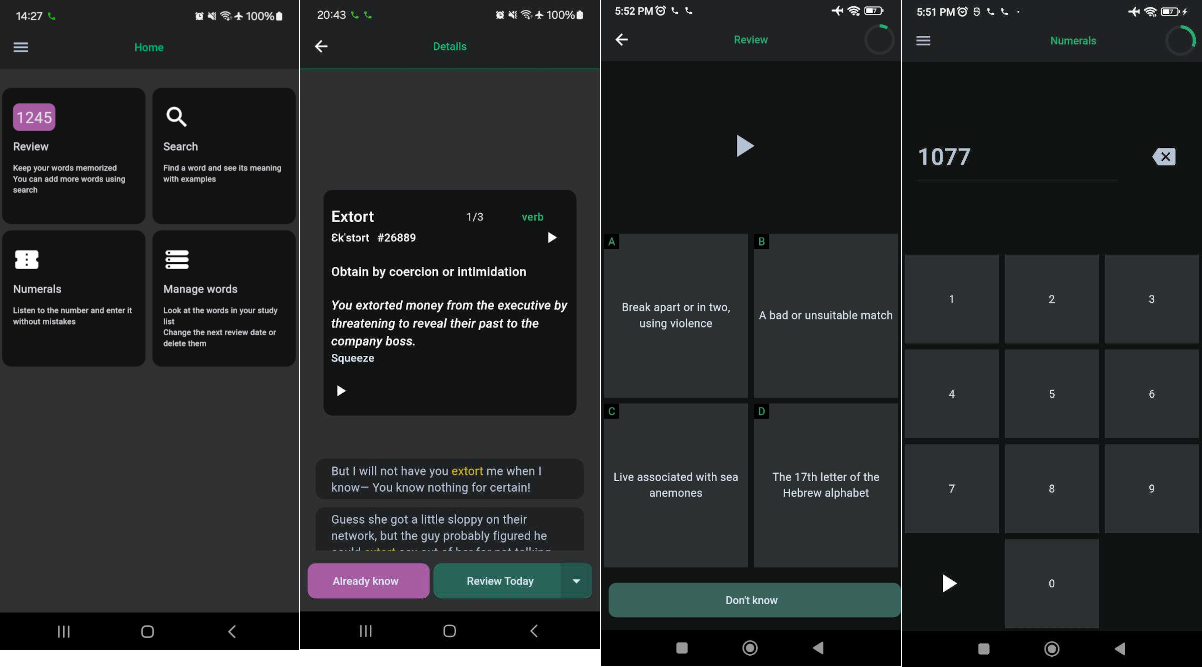
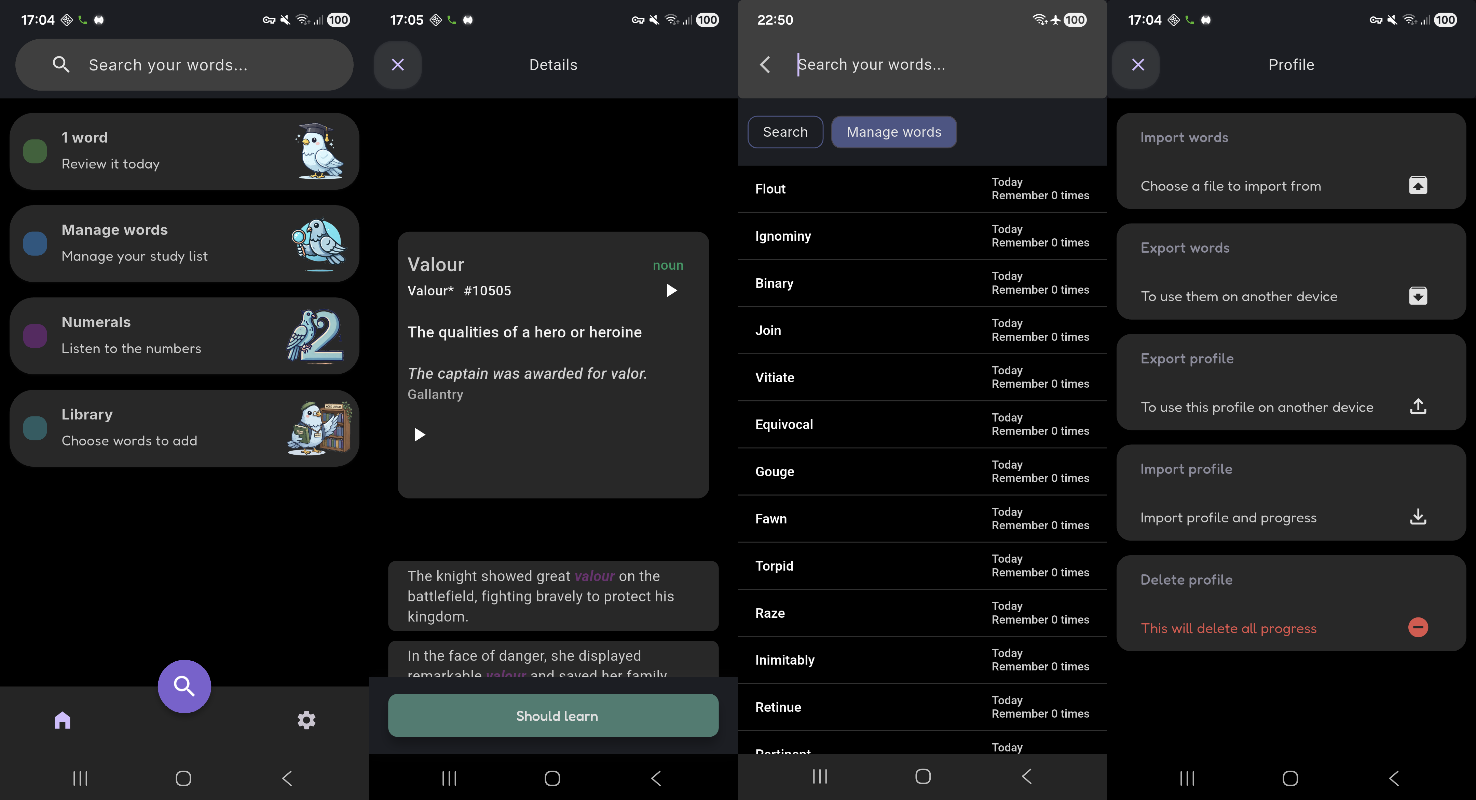
update description

diff --git a/README.md b/README.md
@@ -2,6 +2,8 @@
 
 A flashcard app with a text to speech feature and number exercises
 
+Flashcards and exercises are generated using ollama3
+
 It's built on Flutter, uses protobuf and c++
 
 ### Previews
@@ -38,50 +40,3 @@ Download from [GooglePlay](https://play.google.com/store/apps/details?id=com.voc
         ```
 - ``flutter pub get``
 - ``flutter run``
-
-#### Features, how to use
- - Find a word in the search
- - Listen and see its meaning and examples
- - Add the word to the study list where the spaced repetition algorithm will keep track on it
-
-#### Third-party
-https://github.com/emilk/loguru.git<br>
-https://github.com/bshoshany/thread-pool.git<br>
-https://github.com/wordset/wordset-dictionary.git
-
- - release google console
- - add rustore sdk
- - release rustore
-
-
-### TODO
- - keep 5 last logs, remove everything else
-
- - pageView - make offcard if > 1 word
- - add progress in numerals
- - theme - https://pub.dev/packages/animated_theme_switcher
- 
- - navigation, use bottom navigator
- - redesign the controls in card, don't know - already know, dialog
- - no <- but (x) from pages (card, numerals, manage words, search etc)
- - cache everything, make an instant start
- - performace sqlite
- - refactor progress in card
- - search words - show if already in list
- - progress and metrics 
- 
- ### TODO dictionary
-
- 1) remove all json containig ".", ",", two letter in upper case
- 2) come with a logic how to port old profile to new database (in app)
- 3) when moving a word into styding - store particular meaning to use
- 4) remove all "(xxx)" in "def" and "example"
-
-Give one example in sentence for "anisotropically", maximum 15-25 symbols (small better)
-
-give 3 examples in sentence for "mangy", maximum 15-25 symbols (small better).
-Resut in a json with fields:
-{
-"example": <your example>
-"freq": 12345 # << here is what number does word the have in the 100,000 most frequently-used English words list
-}
